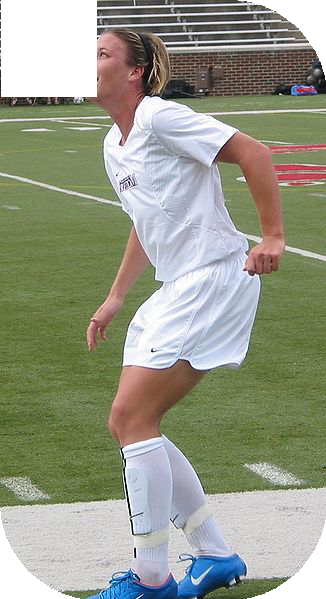
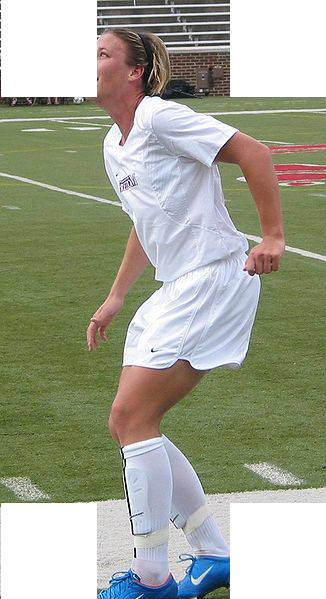
square cutouts in corners mask

Changed region(s): [[0.7055, 0.0, 1.0, 0.1803], [0.0, 0.8414, 0.3067, 1.0], [0.7055, 0.8414, 1.0, 1.0]]

diff --git a/mask.py b/mask.py
@@ -85,13 +85,13 @@ def something_one_image(original_image, percent_of_side=.3):
                           fill=(127, 0, 127, 255))
 
     # Draw four filled circles of opaqueness
-    drawing_layer.ellipse((0, 0, 0 * radius, 2 * radius),
+    drawing_layer.ellipse((0, 0, 0, 2 * radius),
                           fill=(0, 127, 127, 255))  # top left
-    drawing_layer.ellipse((width - 2 * radius, 0, width, 2 * radius),
+    drawing_layer.ellipse((width - 2 * radius, 0, 0, 2 * radius),
                           fill=(0, 127, 127, 255))  # top right
-    drawing_layer.ellipse((0, height - 2 * radius, 2 * radius, height),
+    drawing_layer.ellipse((0, height - 2 * radius, 0, height),
                           fill=(0, 127, 127, 255))  # bottom left
-    drawing_layer.ellipse((width - 2 * radius, height - 2 * radius, width, height),
+    drawing_layer.ellipse((width - 2 * radius, height - 2 * radius, 0, height),
                           fill=(0, 127, 127, 255))  # bottom right
 
     # Uncomment the following line to show the mask
